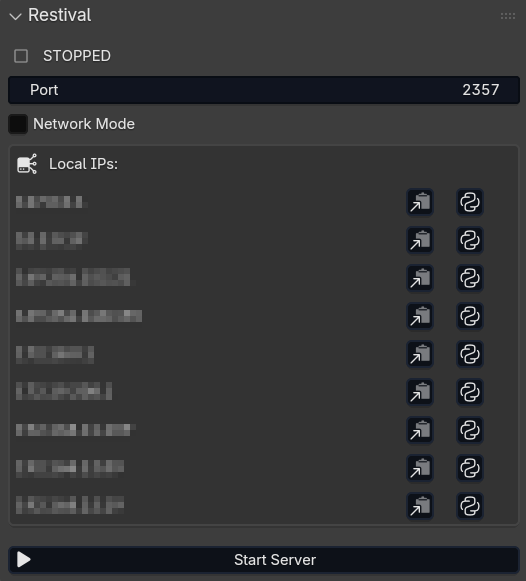
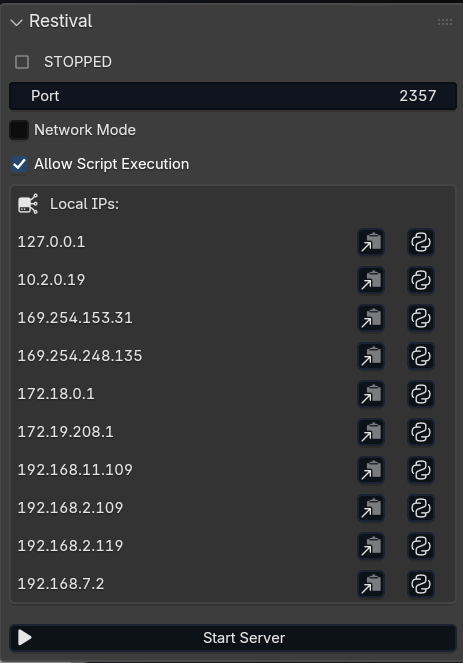
readme updates

diff --git a/README.md b/README.md
@@ -5,7 +5,7 @@ Restival is a Blender addon that exposes your scene as a live REST API. It lets 
 I built it because small models can often understand REST APIs more reliably than complex local MCP setups. In Blender, MCP-based workflows can add friction, create stale connections, and raise security concerns when arbitrary Python execution is involved. Restival keeps things simple: one addon, a clear read/write boundary, and an explicit opt-in toggle for script execution.
 
 <p align="center">
-  <img src="img/UI2.png" alt="Restival UI" width="49%" />
+  <img src="img/ui.png" alt="Restival UI" width="49%" />
   <img src="img/running.png" alt="Restival Running" width="49%" />
   <img src="img/agent.png" alt="Restival Running" width="100%" />
 </p>
